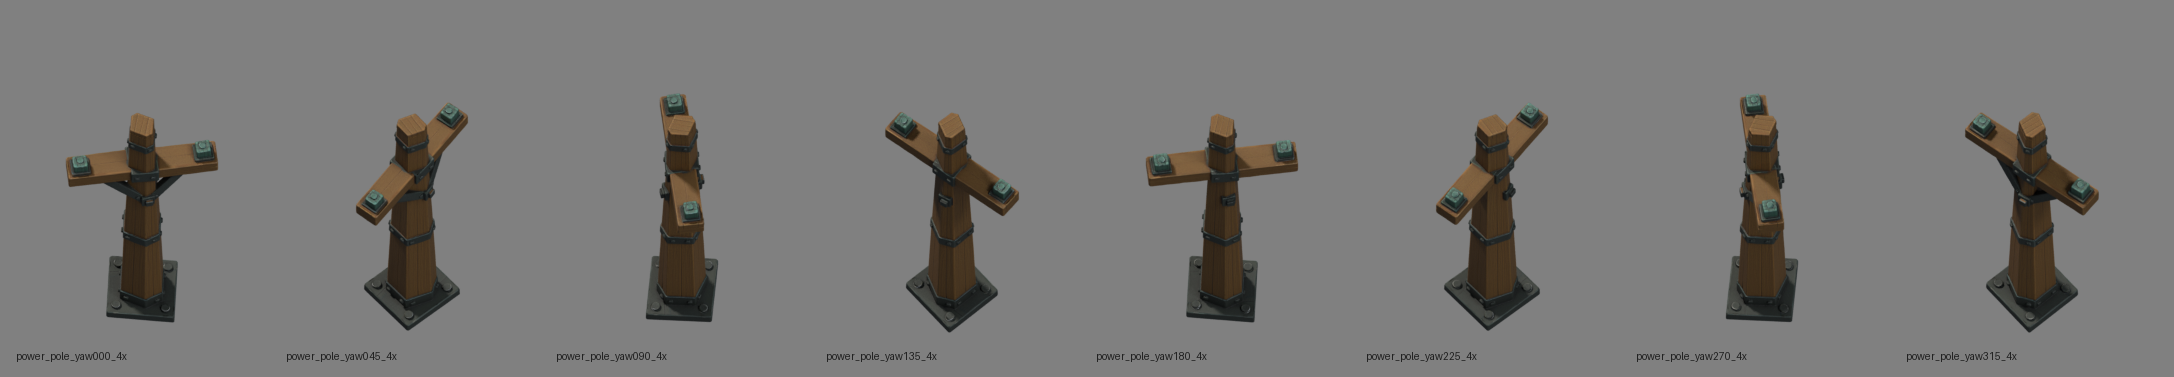
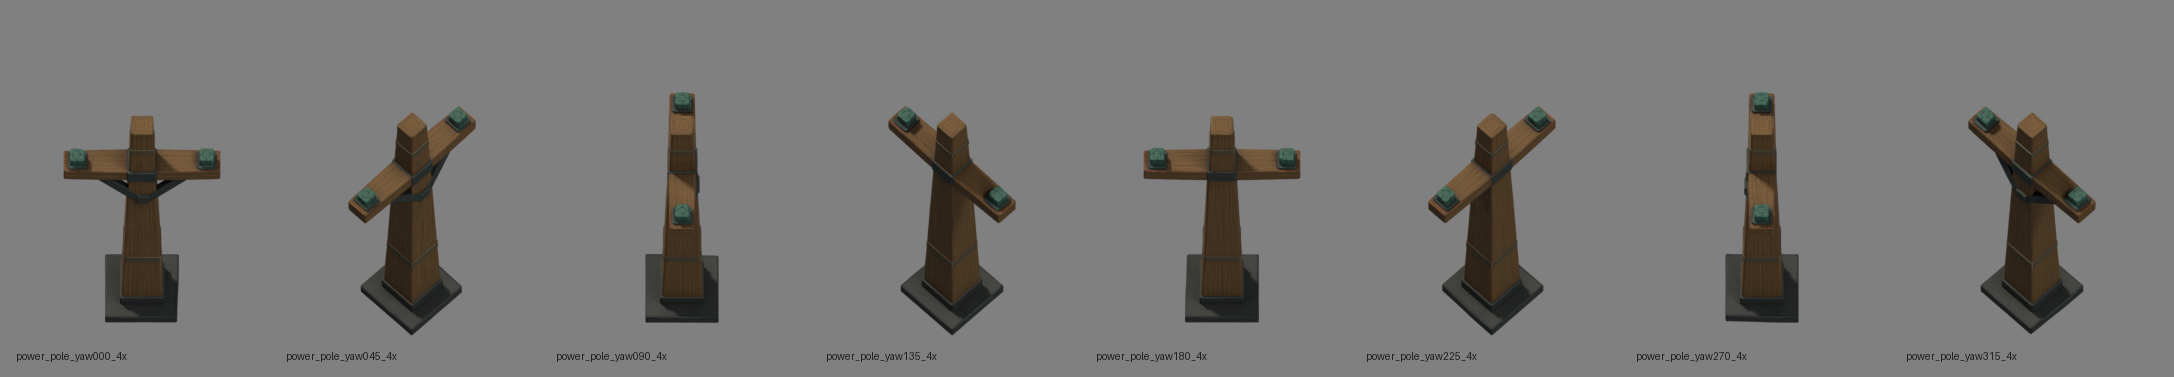
Pole v2: band fix was right and insufficient - GRAIN dominates 3:1
Five high-contrast bands -> two low-contrast bands moved HF 15.6% -> 13.6%, a
13% drop against the synthetic floor (15.60x -> 13.60x). Not the large drop
expected. The contrast-by-area theory is NOT falsified - it moved the number the
right way - but it is not the dominant cost on this asset. Saying so plainly was
the instruction.

WHERE THE COST ACTUALLY IS. New tool hf_regions.py decomposes HF by region and,
more usefully, by STRIPE ORIENTATION - grain and bands overlap in the same
pixels so no spatial mask can separate them, but vertical stripes put energy in
the horizontal-frequency axis and horizontal stripes in the vertical.

  whole sprite   vertical (grain) 64%   horizontal (bands) 36%
  inside mast    vertical (grain) 74%   horizontal (bands) 26%

Grain dominates roughly 3:1 inside the mast. Corroborated in the albedo: the
pole carries ~1.7x the smelter's total fine-detail energy.

A FLAW IN MY OWN METRIC, stated not buried: the by-region "contribution" number
came out NEGATIVE for the crossarm (-5.90%). That is the measure failing, not a
finding - HF is a RATIO, so flattening a large region strips low-frequency
energy too and can raise it. Region contributions are readable by sign only, and
only for the largest region. The orientation split has no such problem.

So the fix is "no visible wood grain", restored to the style core with the
measurement attached. That is a prompt error, not a model failure.
[…]

diff --git a/art/tools/hf_regions.py b/art/tools/hf_regions.py
@@ -1,0 +1,179 @@
+"""Where does an asset's high-frequency cost actually come from?
+
+    python art/tools/hf_regions.py power_pole
+
+`detail_density.py` gives one number for the whole sprite. When that number is
+too high, this says WHICH PART of the asset is spending it - so the prompt fix
+targets the real source instead of the most visible one.
+
+TWO DECOMPOSITIONS
+
+1. BY REGION. Split the silhouette into base / mast / crossarm from the
+   column-width profile, then measure each region's contribution as
+
+       contribution = HF(full) - HF(that region flattened to its local mean)
+
+   Flattening rather than deleting keeps the silhouette intact, so the number
+   isolates the region's TEXTURE rather than its outline.
+
+2. BY ORIENTATION, within a region. Vertical stripes (wood grain running up the
+   mast) put their energy in the horizontal-frequency axis; horizontal stripes
+   (iron bands crossing the mast) put theirs in the vertical axis. Splitting the
+   destroyed energy by which axis dominates separates grain from bands without
+   needing to segment them spatially at all.
+
+That second split is the one that matters here: grain and bands overlap in the
+same pixels, so no spatial mask could ever tell them apart.
+"""
+
+import argparse
+import os
+import sys
+
+import numpy as np
+from PIL import Image
+
+REPO = os.path.abspath(os.path.join(os.path.dirname(os.path.abspath(__file__)), "..", ".."))
+SUPERSAMPLE = 4
+
+
+def luma(rgb):
+    return rgb[..., 0] * 0.2126 + rgb[..., 1] * 0.7152 + rgb[..., 2] * 0.0722
+
+
+def load(path):
+    a = np.asarray(Image.open(path).convert("RGBA")).astype(np.float64) / 255.0
+    return a[..., :3], a[..., 3]
+
+
+def box_blur(img, r):
+    pad = np.pad(img, r, mode="edge")
+    c = np.cumsum(np.cumsum(pad, axis=0), axis=1)
+    c = np.pad(c, ((1, 0), (1, 0)), mode="constant")
+    h, w = img.shape
+    k = 2 * r + 1
+    tot = c[k:k + h, k:k + w] - c[0:h, k:k + w] - c[k:k + h, 0:w] + c[0:h, 0:w]
+    return tot / (k * k)
+
+
+def hf_of(lum, mask, split=False):
+    """Fraction of AC energy above the downsample cutoff. Optionally also the
+    split of that lost energy into vertical-stripe vs horizontal-stripe."""
+    ys, xs = np.nonzero(mask)
+    if len(xs) < 64:
+        return (0.0, 0.0, 0.0) if split else 0.0
+    y0, y1, x0, x1 = ys.min(), ys.max(), xs.min(), xs.max()
+    g = lum[y0:y1 + 1, x0:x1 + 1].copy()
+    m = mask[y0:y1 + 1, x0:x1 + 1]
+    g = np.where(m, g, g[m].mean())
+    g = g - g.mean()
+
+    h, w = g.shape
+    win = np.outer(np.hanning(h), np.hanning(w))
+    F = np.fft.fftshift(np.fft.fft2(g * win))
+    P = F.real ** 2 + F.imag ** 2
+
+    fy = np.fft.fftshift(np.fft.fftfreq(h)) * 2.0
+    fx = np.fft.fftshift(np.fft.fftfreq(w)) * 2.0
+    FX, FY = np.meshgrid(fx, fy, indexing="xy")
+    R = np.hypot(FX, FY)
+
+    ac = R > 1e-9
+    cutoff = 1.0 / SUPERSAMPLE
+    total = P[ac].sum()
+    lost_mask = ac & (R > cutoff)
+    lost = P[lost_mask].sum()
+    frac = float(lost / max(total, 1e-12) * 100)
+    if not split:
+        return frac
+
+    # vertical stripes vary along x -> energy where |fx| > |fy|
+    vert = P[lost_mask & (np.abs(FX) > np.abs(FY))].sum()
+    horiz = P[lost_mask & (np.abs(FY) >= np.abs(FX))].sum()
+    tot2 = max(vert + horiz, 1e-12)
+    return frac, float(vert / tot2 * 100), float(horiz / tot2 * 100)
+
+
+def regions_from_profile(mask):
+    """base / mast / crossarm from the column-width profile."""
+    cols = mask.sum(axis=0)
+    rows = mask.sum(axis=1)
+    ys = np.nonzero(rows)[0]
+    y0, y1 = ys.min(), ys.max()
+    H = y1 - y0 + 1
+
+    widths = np.array([mask[y].sum() for y in range(y0, y1 + 1)], dtype=float)
+    med = np.median(widths[widths > 0])
+
+    reg = np.zeros(mask.shape, dtype=np.uint8)   # 1 base, 2 mast, 3 crossarm
+    for i, y in enumerate(range(y0, y1 + 1)):
+        rel = (y - y0) / max(H - 1, 1)
+        w = widths[i]
+        if rel > 0.80 and w > med * 1.15:
+            reg[y] = 1                      # wide and low -> base plate
+        elif rel < 0.45 and w > med * 1.35:
+            reg[y] = 3                      # wide and high -> crossarm
+        else:
+            reg[y] = 2                      # everything else -> mast
+    reg[~mask] = 0
+    return reg
+
+
+def main():
+    ap = argparse.ArgumentParser()
+    ap.add_argument("name")
+    ap.add_argument("--suffix", default="")
+    a = ap.parse_args()
+
+    master = os.path.join(REPO, "art", "renders", f"{a.name}{a.suffix}_4x.png")
+    if not os.path.exists(master):
+        print(f"MISSING {master}")
+        return 1
+    rgb, al = load(master)
+    mask = al > 0.5
+    lum = luma(rgb)
+
+    base_hf, v_all, h_all = hf_of(lum, mask, split=True)
+    print(f"{a.name}{a.suffix}   master {rgb.shape[1]}x{rgb.shape[0]}")
+    print(f"  TOTAL HF destroyed: {base_hf:.2f}%")
+    print(f"  of that lost energy:  vertical stripes {v_all:.0f}%   "
+          f"horizontal stripes {h_all:.0f}%")
+    print("     (vertical stripes = grain running up the mast;")
+    print("      horizontal stripes = bands crossing it)")
+
+    reg = regions_from_profile(mask)
+    names = {1: "base plate", 2: "mast", 3: "crossarm"}
+    print(f"\n  contribution by region (HF minus HF with that region flattened):")
+    print(f"  {'region':12}{'px share':>10}{'HF if flat':>12}{'contribution':>14}")
+    rows = []
+    for rid in (2, 3, 1):
+        sel = reg == rid
+        if sel.sum() < 64:
+            continue
+        flat = lum.copy()
+        blurred = box_blur(lum, max(3, int(min(rgb.shape[:2]) * 0.05)))
+        flat[sel] = blurred[sel]
+        hf_flat = hf_of(flat, mask)
+        contrib = base_hf - hf_flat
+        rows.append((names[rid], sel.sum() / max(mask.sum(), 1) * 100, hf_flat, contrib))
+    for n, share, hff, c in sorted(rows, key=lambda r: -r[3]):
+        print(f"  {n:12}{share:9.1f}%{hff:11.2f}%{c:13.2f}%")
+
+    # orientation split inside the mast only
+    mast = reg == 2
+    if mast.sum() > 64:
+        _, v, h = hf_of(lum, mast, split=True)
+        print(f"\n  INSIDE THE MAST, the destroyed energy splits:")
+        print(f"    vertical stripes (wood grain) : {v:.0f}%")
+        print(f"    horizontal stripes (bands)    : {h:.0f}%")
+        verdict = ("GRAIN dominates - the fix is 'no visible wood grain'"
+                   if v > 60 else
+                   "BANDS dominate - the fix is fewer / lower-contrast bands"
+                   if h > 60 else
+                   "neither dominates - grain and bands cost comparably")
+        print(f"    -> {verdict}")
+    return 0
+
+
+if __name__ == "__main__":
+    sys.exit(main())

diff --git a/art/PIPELINE.md b/art/PIPELINE.md
@@ -132,6 +132,8 @@ art/
     assert_palette_era.py  gate: every real asset on the locked palette era
     assert_rig_correlation.py  gate: baked light must not oppose the rig
     baked_shading.py       albedo variance by spatial scale (see section 15)
+    hf_regions.py          WHERE an asset spends its HF: by region and by stripe orientation
+    make_calibration.py    builds the permanent synthetic HF floor (blender/)
     palette_board.py       renders a palette on flat proxies, no correction
 ```
 
@@ -1238,3 +1240,75 @@ pixels moved by >8/255, 7.6% by >32/255**. Side by side in
 `art/renders/smelter_reapproval.png`. Its rig correlation moved +0.296 ->
 +0.492, which is expected: same asset, different correction, and the magnitude
 is not comparable across pipeline versions.
+
+---
+
+## 20. Pole v2: the band fix was right and insufficient - GRAIN dominates
+
+Five high-contrast bands became two low-contrast bands. The result, plainly:
+
+| | HF destroyed | vs synthetic floor |
+|---|---|---|
+| pole v1 (five bands) | 15.6% | 15.60x |
+| **pole v2 (two bands)** | **13.6%** | **13.60x** |
+
+**A 13% drop, not a large one.** The contrast-by-area theory is not falsified -
+it moved the number in the right direction - but it is clearly not the dominant
+cost on this asset. Saying so plainly rather than explaining it away was the
+instruction, and this is that answer.
+
+### Where the cost actually is
+
+`hf_regions.py` decomposes it two ways. The one that matters here is by
+ORIENTATION, because grain and bands overlap in the same pixels and no spatial
+mask could separate them: vertical stripes (grain running up the mast) put their
+energy in the horizontal-frequency axis, horizontal stripes (bands crossing it)
+in the vertical axis.
+
+| | share of destroyed energy |
+|---|---|
+| whole sprite - vertical stripes (grain) | **64%** |
+| whole sprite - horizontal stripes (bands) | 36% |
+| **inside the mast** - vertical (grain) | **74%** |
+| inside the mast - horizontal (bands) | 26% |
+
+**Grain dominates, roughly 3:1 inside the mast.** Corroborated independently in
+the albedo: the pole carries about **1.7x the smelter's total fine-detail
+energy**.
+
+> **A flaw in my own metric, stated rather than buried:** the by-region
+> "contribution" number came out **negative** for the crossarm (-5.90%). That is
+> the measure failing, not a finding - HF is a RATIO of high-band to total AC
+> energy, so flattening a large region strips low-frequency energy too and can
+> RAISE the ratio. Region contributions are only readable by sign, and only for
+> the largest region. The orientation split has no such problem: fixed region,
+> fixed total, so it is the number to trust.
+
+**The fix is "no visible wood grain", and it belongs in the style core** - where
+it was, before the fine-detail rule was relaxed. That is a prompt error, not a
+model failure. `PROMPTS.md` now carries it with this measurement attached.
+
+### The bands landed exactly on the ambiguity the d1/d2 rule exists to catch
+
+They do form their own cluster, and it is a dead heat:
+
+| cluster | colour | pop | d to oak | d to iron | d to verdigris | d1/d2 |
+|---|---|---|---|---|---|---|
+| 15 | `#4F4229` | 2.5% | 0.0909 | 0.0983 | 0.0933 | **0.97** |
+
+Equidistant from three members at once. It did not cause a *drop*, because it is
+not the chosen cluster for any member - oak took `#4C300F`, iron took `#282B23`
+(the dark base plate). So the band cluster is simply **unmatched and ignored**:
+the bands are corrected only by whatever gaussian blend of the other anchors
+happens to reach them, and drift uncorrected.
+
+**The tension is real and worth naming: low contrast helps the downsample and
+hurts the matcher.** Asking for a band "only slightly darker than the timber"
+produced a warm olive sitting between oak and iron, which is exactly what an
+ambiguous cluster looks like.
+
+**It resolves rather than trades off, though - the instruction just needs to be
+sharper.** Low contrast should constrain **value**, not **hue**. A thin iron
+band should be a *dark, desaturated wrought iron* - close to the timber in
+lightness, unmistakably iron in hue. What produces ambiguity is drifting the hue
+halfway to the neighbour, not keeping the value close. `PROMPTS.md` now says so.

diff --git a/art/PROMPTS.md b/art/PROMPTS.md
@@ -57,9 +57,13 @@ CONTRAST BY AREA:
 LARGE regions - walls, roof, base, posts - are strongly DIFFERENT in value from
 each other. A stone wall against a timber post should read as light against
 dark at a glance.
-THIN features - bands, straps, bolts, rivets, edging, trim - are CLOSE in value
-to whatever surrounds them. A thin iron band on a timber post is barely darker
-than the post, never a hard dark line.
+THIN features - bands, straps, bolts, rivets, edging, trim - are CLOSE in VALUE
+to whatever surrounds them, but keep their own HUE. A thin iron band on a timber
+post is barely darker than the post, never a hard dark line - and it is still
+unmistakably iron-coloured, never a blend halfway between iron and timber.
+
+NO VISIBLE WOOD GRAIN. Timber is a flat block of colour. No striping, no
+lengthwise fibres, no plank lines.
 
 Colours only: fieldstone grey #5A5E58, wrought iron #46504E, weathered oak
 #6B4E32, leather #7A4438, verdigris green #4E7A66 (accents only).
@@ -220,6 +224,19 @@ a band.* Both halves are measured:
 
 A thin high-contrast edge is the single most expensive thing you can ask for at
 this resolution. A thin low-contrast one is free.
+
+**Low contrast means VALUE, not HUE.** The pole's bands were asked to be "only
+slightly darker than the timber" and came back a warm olive sitting between
+weathered oak and wrought iron - a cluster **equidistant from three palette
+members at once (d1/d2 = 0.97)**, which the matcher cannot assign, so those
+pixels go uncorrected. Keep a thin feature close in lightness to its
+surroundings and firmly in its own hue.
+
+**NO VISIBLE WOOD GRAIN - measured.** On the pole, **64% of all destroyed
+high-frequency energy is vertical striping, rising to 74% inside the mast**;
+the two iron bands account for only 26% there. Grain is the single largest HF
+cost in the set, roughly 3:1 over the thing it was assumed to be. Timber is a
+flat block of colour.
 
 ---
 
